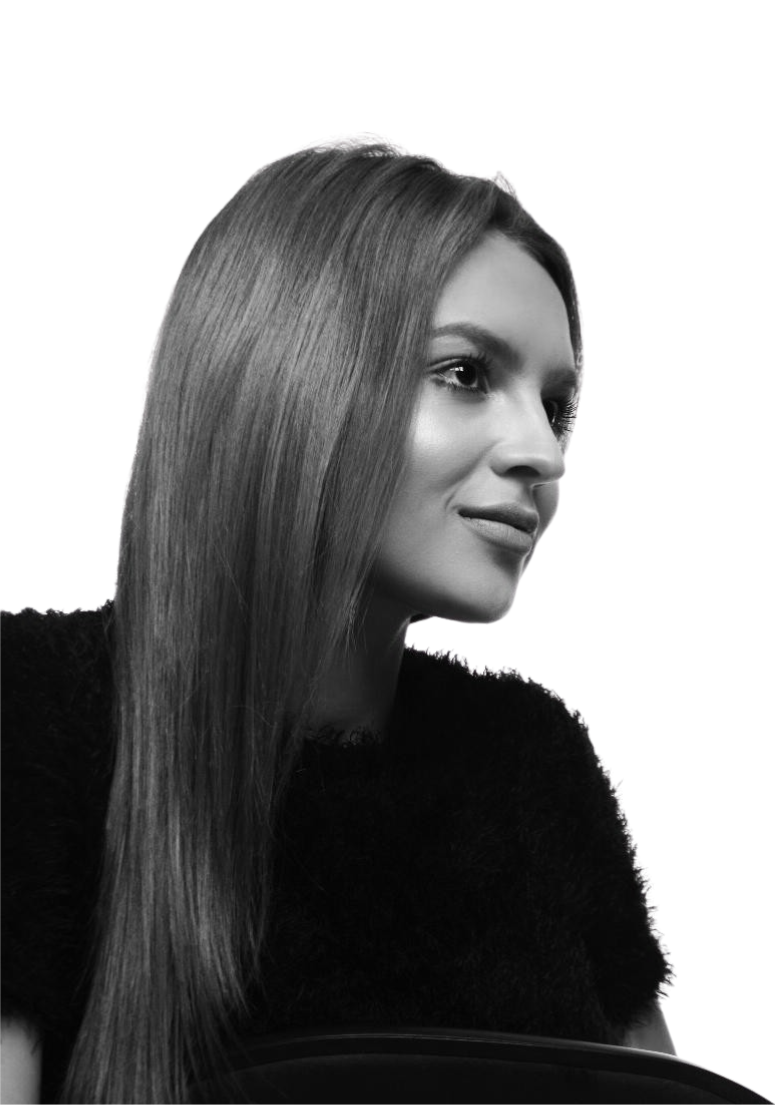
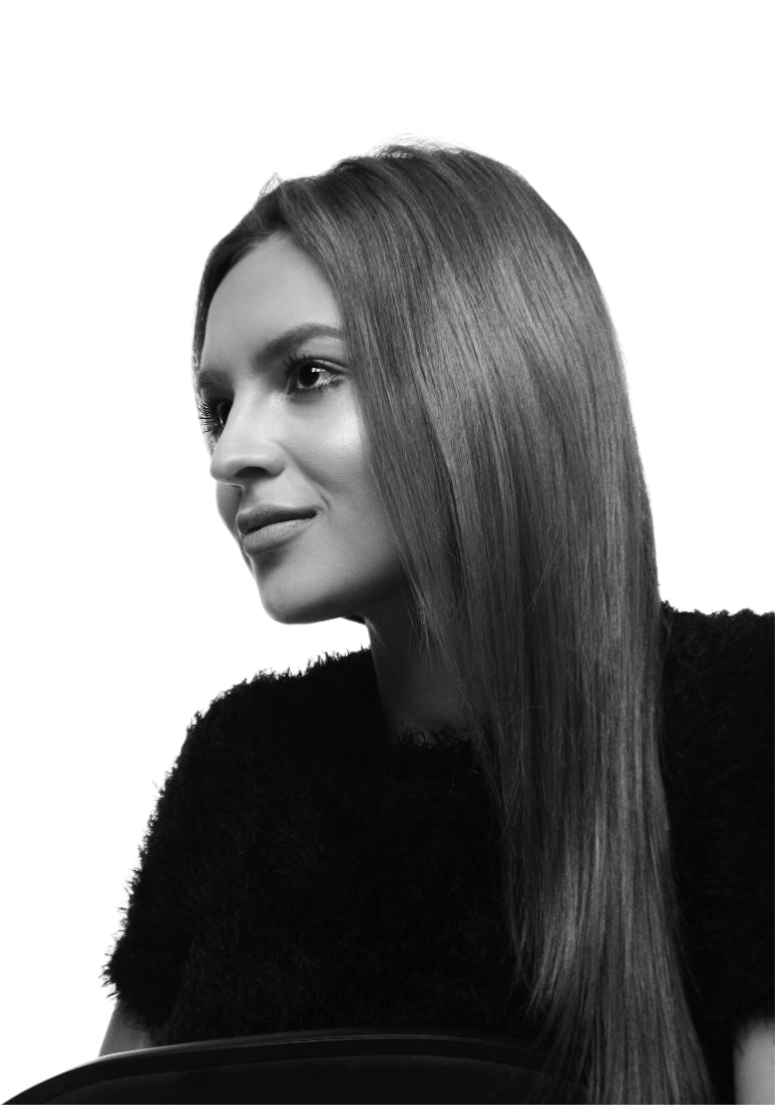
Site Beatriz BCV

diff --git a/public/css/style.css b/public/css/style.css
@@ -114,7 +114,7 @@ article{
     display: flex;
     flex-direction: column;
     align-items: center;
-    padding-top: 10px;
+    padding-top: 20px;
     min-height: 720px;
 }
 
@@ -122,19 +122,7 @@ article{
     font-size: 30pt;
     font-weight: normal;
     color: #817160;
-}
-
-.sobre h2{
-    font-size: 16pt;
-    color: #817160;
-    margin-top: 5%;
-
-}
-
-.sobre h3{
-    font-size: 14pt;
-    font-weight: normal;
-    color: #817160;
+    margin-top: 4%;
 }
 
 .sobre-descricao{
@@ -143,7 +131,6 @@ article{
 }
 
 .sobre-descricao p, .sobre-descricao ul li{
-    margin-left: 26%;
     font-size: 14pt;
     color: #817160;
 }
@@ -161,8 +148,7 @@ article{
 }
 
 .sobre-descricao2{
-    text-align: end;
-    margin-left: 30vw;
+    margin-right: 30vw;
 }
 
 .sobre-descricao2 p{
@@ -170,12 +156,12 @@ article{
 }
 
 .sobre img{
-    width: 32vw;
+    width: 31vw;
     max-width: 32rem;
-    min-width: 18rem;
+    min-width: 15rem;
     position: absolute;
     bottom: 0;
-    left: 0;
+    right: 0;
 }
 
 footer{
@@ -197,6 +183,7 @@ footer{
     font-size: 30pt;
     font-weight: normal;
     color: #fff;
+    margin-top: 4%;
 }
 
 .rodape ul{
@@ -219,11 +206,11 @@ footer{
     color: #fff;
     position: relative;
     align-items: center;
-    font-size: 18pt;
+    font-size: 14pt;
 }
 
 .rodape ul li img{
-    width: 50px;
+    width: 45px;
     padding: 10px;
 }
 
@@ -291,8 +278,11 @@ footer{
 }
 
 @media screen and (max-width: 680px) {
+    .principal-logo img {
+        max-width: 8em;
+    }
     .sobre{
-        min-height: 880px;
+        min-height: 780px;
     }
     section {
         height: 35vh;
@@ -308,7 +298,7 @@ footer{
     }
 
     .sobre-descricao2{
-        margin-left: 0;
+        margin-right: 0;
     }
 
     footer{
@@ -318,9 +308,6 @@ footer{
 }
 
 @media screen and (max-width: 530px) {
-    .sobre{
-        min-height: 920px;
-    }
     main{
         margin: 1.5em
     }
@@ -346,10 +333,9 @@ footer{
 }
 
 @media screen and (max-width: 480px) {
-    .sobre img{
-        min-width: 80%;
+    .sobre {
+        min-height: 800px;
     }
-
     .sobre h2, .sobre h3{
         font-size: 14pt;
     }
@@ -363,6 +349,9 @@ footer{
     }
 }
 @media screen and (max-width: 390px) {
+    .sobre{
+        min-height: 880px;
+    }
     .principal-navbar a {
         font-size: 14pt;
     }

diff --git a/index.html b/index.html
@@ -33,8 +33,6 @@
         <article id="sobre">
             <div class="sobre" data-aos="fade-up"  data-aos-duration="1500" data-aos-anchor-placement="top-bottom" data-aos-easing="linear">
                     <h1>Sobre</h1>
-                        <h2>Beatriz C. Vestri</h2>
-                        <h3>Psicanalista Clínica</h3>
                 <div class="sobre-descricao"><p><span>Beatriz C. Vestri</span> é Psicanalista clínica certificada pela IBPC - Instituto Brasileiro de Psicanálise Clínica.</p>
             <ul>
                 <li>Curso de Análise de Linguagem Corporal.</li>
